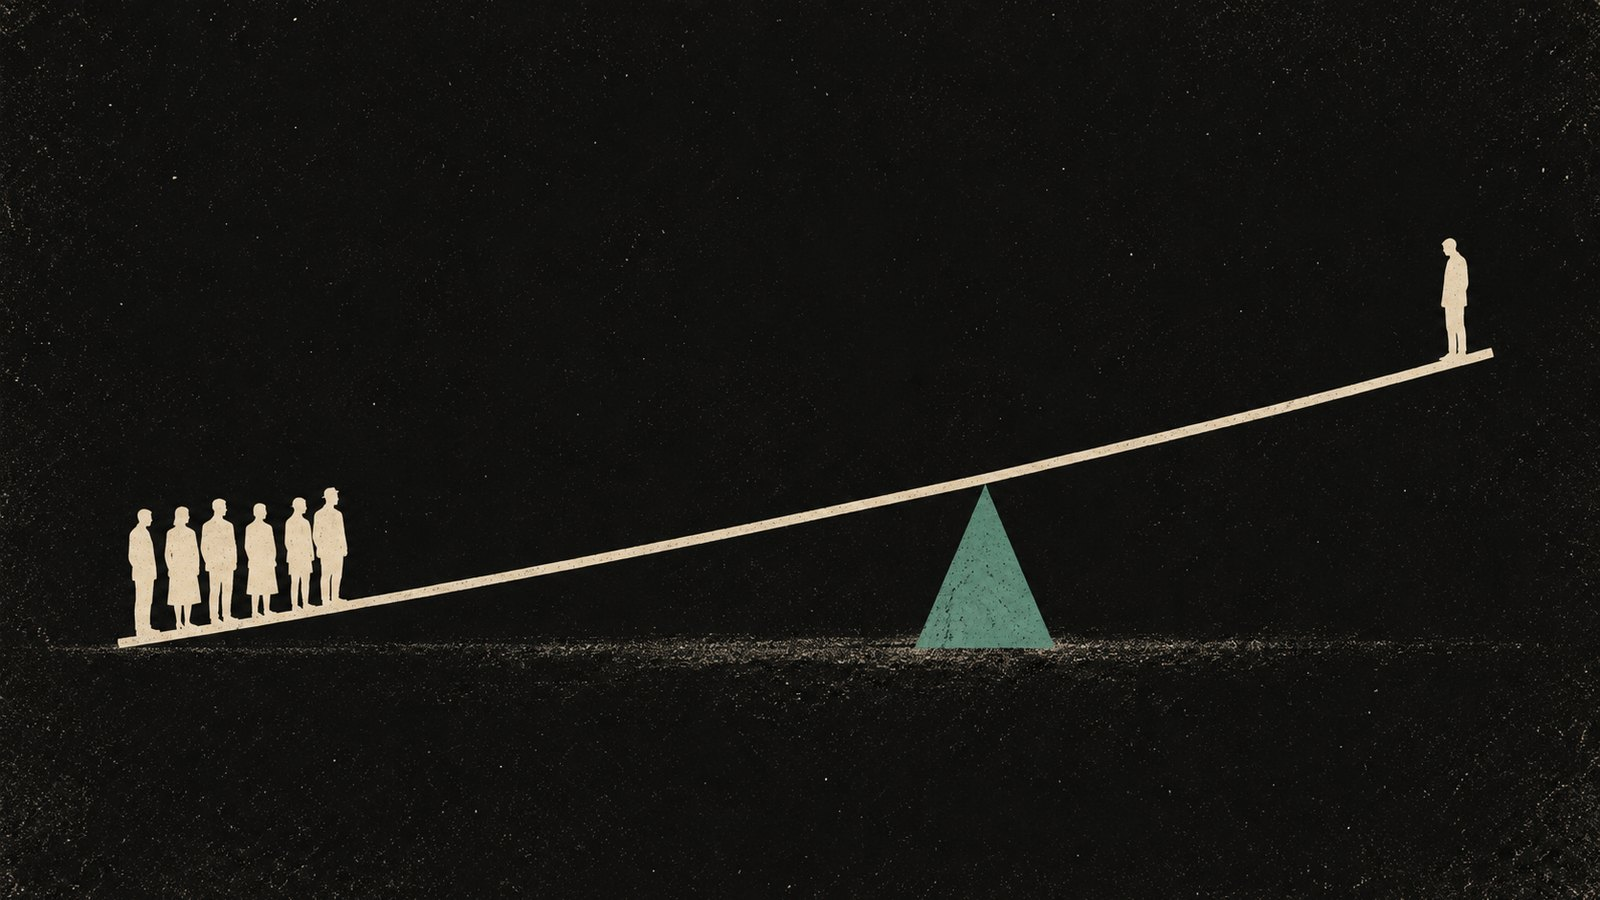
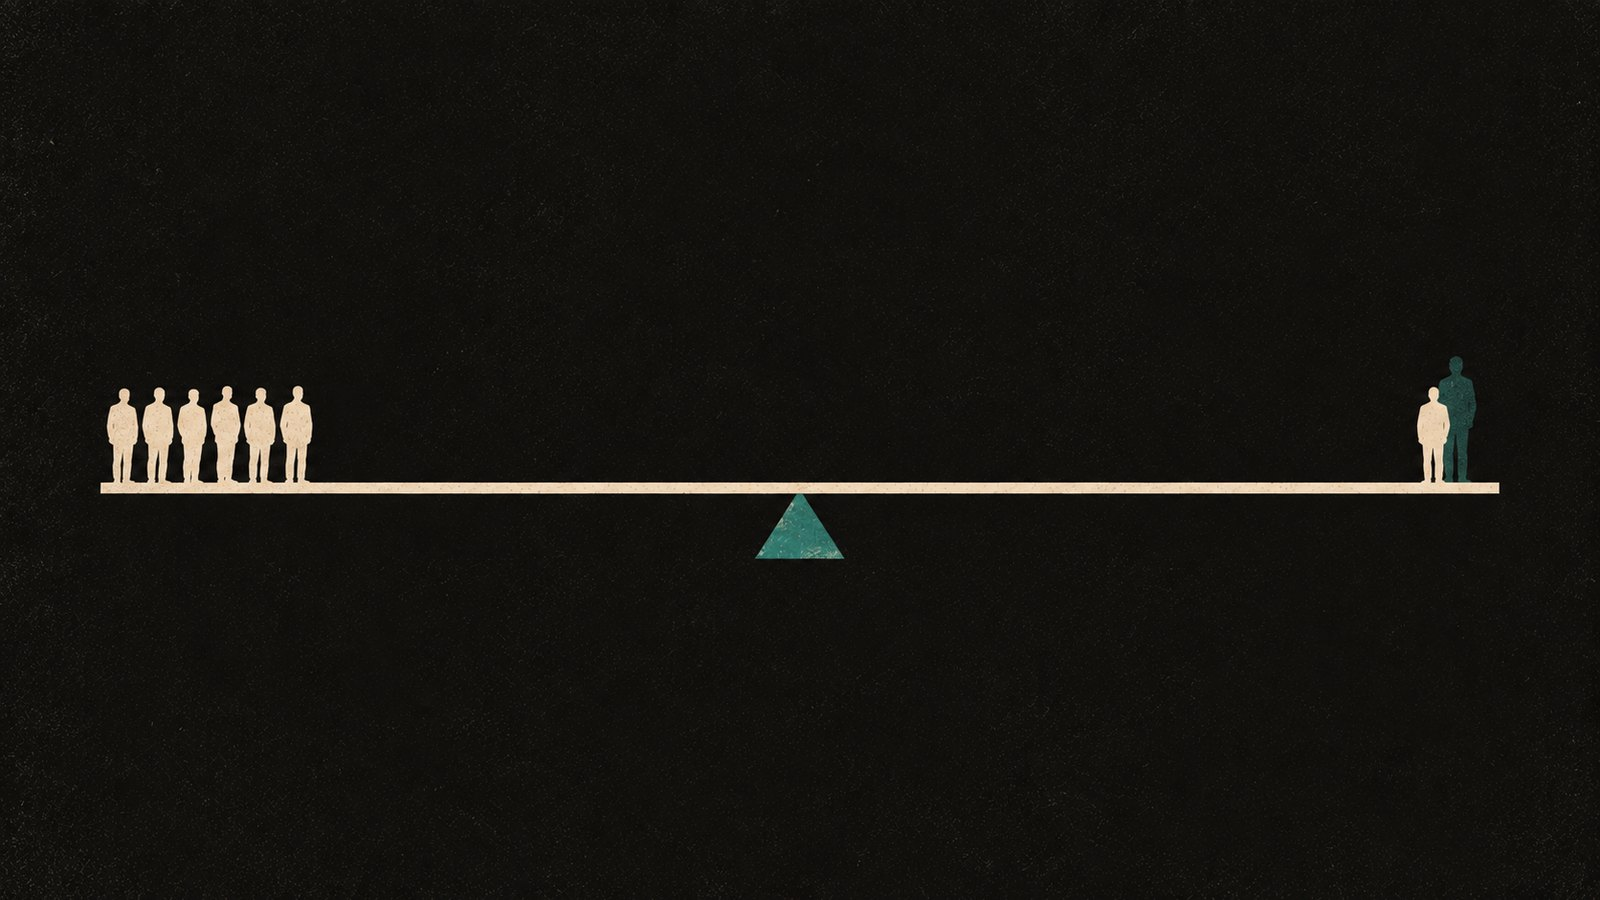
content: final lever cover for 杠杆置换 (level lever, centered fulcrum, teal shadow behind the lone figure)
Claude-Session: https://claude.ai/code/session_01Re4gqogCyUMcmrt9fjAdSa

diff --git a/cafe/en/manager-to-ic.md b/cafe/en/manager-to-ic.md
@@ -7,7 +7,7 @@ locale: "en"
 tags: ["Career", "Management", "AI"]
 related: ["library/anbarai", "cafe/rethinking-homo-deus"]
 cover: ../_assets/manager-to-ic/cover.jpg
-coverAlt: "A lever whose fulcrum has shifted toward the lone figure"
+coverAlt: "A level lever: six figures on the left, one on the right backed by a teal shadow of himself"
 draft: false
 ---
 

diff --git a/cafe/zh/manager-to-ic.md b/cafe/zh/manager-to-ic.md
@@ -7,7 +7,7 @@ locale: "zh"
 tags: ["职业", "管理", "AI"]
 related: ["library/anbarai", "cafe/rethinking-homo-deus"]
 cover: ../_assets/manager-to-ic/cover.jpg
-coverAlt: "杠杆：支点滑向了独自一人的那一端"
+coverAlt: "一根水平的杠杆：左端六个人，右端一个人，他身后叠着一道青绿的影子"
 draft: false
 ---
 
